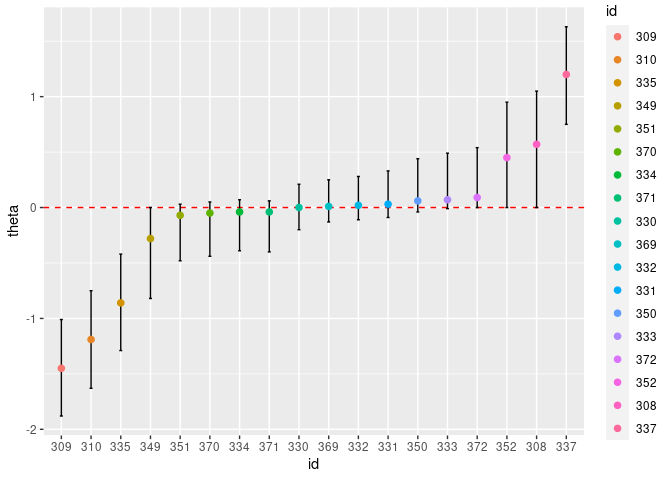
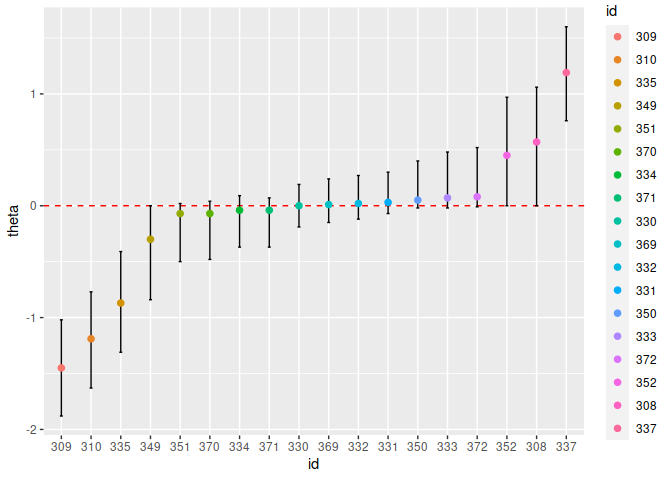
readme title changed

diff --git a/README.md b/README.md
@@ -1,8 +1,8 @@
 <!-- README.md is generated from README.Rmd. Please edit that file -->
 <!-- knit with rmarkdown::render("README.Rmd", output_format = "md_document") -->
 
-SSranef
-=======
+Individual Variance Detection
+=============================
 
 <!-- badges: start -->
 
@@ -69,33 +69,33 @@ Alpha model
     #> Call: ss_ranef_alpha(y = d$y, unit = d$Subject)
     #> 
     #>       Post_mean q05   q95 
-    #> alpha 0.08      -0.08 0.25
+    #> alpha 0.09      -0.08 0.26
     #> sigma 0.79       0.72 0.86
-    #> tau   0.95       0.61 1.42
+    #> tau   0.99       0.62 1.56
 
     ranef_summary(alpha, ci = 0.95, digits = 2)
     #> Linear mixed model fit with SSranef
     #> Call: ss_ranef_alpha(y = d$y, unit = d$Subject)
     #> 
     #>           Post_mean q025  q975  PIP  BF_10   BF_01
-    #> theta_308  0.57      0.00  1.14 0.88    7.21 0.14 
-    #> theta_309 -1.45     -1.96 -0.92 1.00     Inf 0.00 
-    #> theta_310 -1.19     -1.71 -0.66 1.00     Inf 0.00 
-    #> theta_330  0.00     -0.32  0.35 0.23    0.31 3.27 
-    #> theta_331  0.03     -0.20  0.45 0.23    0.31 3.27 
-    #> theta_332  0.02     -0.23  0.40 0.22    0.29 3.48 
-    #> theta_333  0.07     -0.13  0.58 0.29    0.42 2.39 
-    #> theta_334 -0.04     -0.51  0.16 0.26    0.35 2.84 
-    #> theta_335 -0.86     -1.39 -0.29 0.99   84.11 0.01 
-    #> theta_337  1.20      0.68  1.72 1.00 1332.33 0.00 
-    #> theta_349 -0.28     -0.92  0.00 0.61    1.54 0.65 
-    #> theta_350  0.06     -0.15  0.54 0.29    0.40 2.49 
-    #> theta_351 -0.07     -0.60  0.14 0.31    0.45 2.20 
-    #> theta_352  0.45      0.00  1.04 0.79    3.82 0.26 
-    #> theta_369  0.01     -0.25  0.36 0.22    0.28 3.62 
-    #> theta_370 -0.05     -0.55  0.18 0.28    0.39 2.56 
-    #> theta_371 -0.04     -0.51  0.16 0.25    0.34 2.97 
-    #> theta_372  0.09     -0.11  0.64 0.33    0.49 2.03
+    #> theta_308  0.57      0.00  1.13 0.86    6.33 0.16 
+    #> theta_309 -1.45     -1.96 -0.93 1.00     Inf 0.00 
+    #> theta_310 -1.19     -1.71 -0.70 1.00 3999.00 0.00 
+    #> theta_330  0.00     -0.31  0.31 0.21    0.27 3.66 
+    #> theta_331  0.03     -0.19  0.44 0.22    0.29 3.47 
+    #> theta_332  0.02     -0.24  0.38 0.23    0.30 3.36 
+    #> theta_333  0.07     -0.12  0.58 0.30    0.43 2.31 
+    #> theta_334 -0.04     -0.50  0.20 0.25    0.33 3.01 
+    #> theta_335 -0.87     -1.39 -0.30 0.99   80.63 0.01 
+    #> theta_337  1.19      0.67  1.68 1.00     Inf 0.00 
+    #> theta_349 -0.30     -0.94  0.00 0.62    1.63 0.61 
+    #> theta_350  0.05     -0.12  0.52 0.25    0.33 2.99 
+    #> theta_351 -0.07     -0.61  0.12 0.30    0.44 2.28 
+    #> theta_352  0.45      0.00  1.05 0.77    3.28 0.31 
+    #> theta_369  0.01     -0.28  0.37 0.22    0.27 3.65 
+    #> theta_370 -0.07     -0.57  0.14 0.29    0.41 2.42 
+    #> theta_371 -0.04     -0.49  0.18 0.24    0.32 3.13 
+    #> theta_372  0.08     -0.12  0.61 0.31    0.45 2.20
 
     caterpillar_plot(alpha)
 
@@ -127,54 +127,54 @@ Beta model
     #> Call: ss_ranef_beta(y = d$y, X = d$Days, unit = d$Subject)
     #> 
     #>       Post_mean q05   q95  
-    #> alpha -0.84     -1.04 -0.63
-    #> beta   0.18      0.15  0.22
+    #> alpha -0.84     -1.03 -0.64
+    #> beta   0.19      0.15  0.22
     #> sigma  0.47      0.42  0.52
-    #> tau1   0.44      0.25  0.68
-    #> tau2   0.16      0.10  0.29
-    #> rho    0.28     -0.29  0.85
+    #> tau1   0.42      0.23  0.63
+    #> tau2   0.16      0.09  0.27
+    #> rho    0.27     -0.35  0.80
 
     ranef_summary(beta, digits = 2)
     #> Linear mixed model fit with SSranef
     #> Call: ss_ranef_beta(y = d$y, X = d$Days, unit = d$Subject)
     #> 
-    #>            Post_mean q05   q95   PIP  BF_10   BF_01
-    #> theta1_308  0.05     -0.36  0.43   NA      NA   NA 
-    #> theta1_309 -0.64     -1.08 -0.26   NA      NA   NA 
-    #> theta1_310 -0.68     -1.22 -0.20   NA      NA   NA 
-    #> theta1_330  0.26     -0.13  0.74   NA      NA   NA 
-    #> theta1_331  0.26     -0.08  0.66   NA      NA   NA 
-    #> theta1_332  0.14     -0.17  0.48   NA      NA   NA 
-    #> theta1_333  0.27     -0.05  0.60   NA      NA   NA 
-    #> theta1_334 -0.06     -0.38  0.26   NA      NA   NA 
-    #> theta1_335 -0.01     -0.40  0.44   NA      NA   NA 
-    #> theta1_337  0.55      0.16  1.01   NA      NA   NA 
-    #> theta1_349 -0.37     -0.73 -0.04   NA      NA   NA 
-    #> theta1_350 -0.18     -0.63  0.25   NA      NA   NA 
-    #> theta1_351 -0.04     -0.38  0.37   NA      NA   NA 
-    #> theta1_352  0.44      0.05  0.87   NA      NA   NA 
-    #> theta1_369  0.11     -0.21  0.46   NA      NA   NA 
-    #> theta1_370 -0.30     -0.80  0.10   NA      NA   NA 
-    #> theta1_371 -0.03     -0.35  0.30   NA      NA   NA 
-    #> theta1_372  0.26     -0.07  0.61   NA      NA   NA 
-    #> theta2_308  0.17      0.09  0.25 0.99  124.00 0.01 
-    #> theta2_309 -0.17     -0.25 -0.09 0.99  128.03 0.01 
-    #> theta2_310 -0.09     -0.20  0.00 0.79    3.67 0.27 
-    #> theta2_330 -0.05     -0.15  0.00 0.60    1.48 0.68 
-    #> theta2_331 -0.02     -0.11  0.00 0.40    0.65 1.53 
-    #> theta2_332  0.00     -0.04  0.04 0.27    0.37 2.73 
-    #> theta2_333  0.00     -0.03  0.04 0.25    0.33 3.04 
-    #> theta2_334  0.00     -0.02  0.05 0.25    0.33 3.02 
-    #> theta2_335 -0.19     -0.28 -0.12 1.00 1332.33 0.00 
-    #> theta2_337  0.17      0.08  0.25 0.99   82.33 0.01 
-    #> theta2_349  0.00     -0.03  0.06 0.26    0.34 2.92 
-    #> theta2_350  0.11      0.00  0.20 0.90    8.95 0.11 
-    #> theta2_351 -0.02     -0.11  0.00 0.42    0.72 1.40 
-    #> theta2_352  0.04      0.00  0.14 0.56    1.29 0.77 
-    #> theta2_369  0.00     -0.03  0.06 0.28    0.38 2.61 
-    #> theta2_370  0.05      0.00  0.16 0.60    1.53 0.66 
-    #> theta2_371 -0.01     -0.06  0.02 0.27    0.37 2.70 
-    #> theta2_372  0.01     -0.01  0.08 0.29    0.42 2.40
+    #>            Post_mean q05   q95   PIP  BF_10  BF_01
+    #> theta1_308  0.04     -0.38  0.42   NA     NA   NA 
+    #> theta1_309 -0.63     -1.08 -0.21   NA     NA   NA 
+    #> theta1_310 -0.63     -1.17 -0.18   NA     NA   NA 
+    #> theta1_330  0.27     -0.12  0.73   NA     NA   NA 
+    #> theta1_331  0.26     -0.08  0.65   NA     NA   NA 
+    #> theta1_332  0.14     -0.17  0.46   NA     NA   NA 
+    #> theta1_333  0.27     -0.05  0.62   NA     NA   NA 
+    #> theta1_334 -0.06     -0.41  0.25   NA     NA   NA 
+    #> theta1_335  0.00     -0.38  0.42   NA     NA   NA 
+    #> theta1_337  0.52      0.14  0.93   NA     NA   NA 
+    #> theta1_349 -0.35     -0.72 -0.03   NA     NA   NA 
+    #> theta1_350 -0.14     -0.57  0.26   NA     NA   NA 
+    #> theta1_351 -0.02     -0.36  0.36   NA     NA   NA 
+    #> theta1_352  0.45      0.05  0.85   NA     NA   NA 
+    #> theta1_369  0.10     -0.23  0.43   NA     NA   NA 
+    #> theta1_370 -0.28     -0.75  0.10   NA     NA   NA 
+    #> theta1_371 -0.03     -0.34  0.31   NA     NA   NA 
+    #> theta1_372  0.27     -0.06  0.60   NA     NA   NA 
+    #> theta2_308  0.17      0.09  0.25 1.00 221.22 0.00 
+    #> theta2_309 -0.17     -0.25 -0.09 0.99 104.26 0.01 
+    #> theta2_310 -0.10     -0.20  0.00 0.85   5.51 0.18 
+    #> theta2_330 -0.05     -0.15  0.00 0.61   1.58 0.63 
+    #> theta2_331 -0.02     -0.11  0.00 0.41   0.70 1.44 
+    #> theta2_332  0.00     -0.04  0.03 0.24   0.32 3.10 
+    #> theta2_333  0.00     -0.04  0.04 0.25   0.34 2.98 
+    #> theta2_334  0.00     -0.02  0.06 0.26   0.35 2.85 
+    #> theta2_335 -0.20     -0.28 -0.12 1.00    Inf 0.00 
+    #> theta2_337  0.17      0.09  0.25 0.99 159.00 0.01 
+    #> theta2_349  0.00     -0.03  0.05 0.26   0.34 2.90 
+    #> theta2_350  0.10      0.00  0.19 0.89   7.95 0.13 
+    #> theta2_351 -0.03     -0.11  0.00 0.43   0.75 1.33 
+    #> theta2_352  0.04      0.00  0.14 0.53   1.12 0.89 
+    #> theta2_369  0.01     -0.02  0.06 0.26   0.36 2.82 
+    #> theta2_370  0.05      0.00  0.16 0.58   1.37 0.73 
+    #> theta2_371 -0.01     -0.06  0.02 0.26   0.36 2.78 
+    #> theta2_372  0.01     -0.02  0.07 0.29   0.41 2.45
 
     caterpillar_plot(beta)
 
@@ -190,9 +190,9 @@ Multivariate model
     mv_data <- gen_mv_data(5, 5)
     str(mv_data)
     #> 'data.frame':    25 obs. of  4 variables:
-    #>  $ y1: num  3.01 4.88 4.55 7.26 3.9 ...
-    #>  $ y2: num  4.63 5.63 5.06 6.61 6.88 ...
-    #>  $ x : num  0 0 0 1 1 1 0 1 0 0 ...
+    #>  $ y1: num  -2.197 3.206 0.325 -3.464 -2.069 ...
+    #>  $ y2: num  2.15 3.09 2.85 5.13 5.48 ...
+    #>  $ x : num  0 0 0 1 1 1 1 1 0 1 ...
     #>  $ id: Factor w/ 5 levels "1","2","3","4",..: 1 1 1 1 1 2 2 2 2 2 ...
 
     mv_model <- ss_ranef_mv(Y = cbind(mv_data$y1, mv_data$y2),
@@ -220,24 +220,24 @@ Multivariate model
     #> Call: ss_ranef_mv(Y = cbind(mv_data$y1, mv_data$y2), X = mv_data$x, 
     #>     unit = mv_data$id, burnin = 100, iter = 500, chains = 4)
     #> 
-    #>         Post_mean q05   q95  
-    #> B_1_1    1.87      0.64  3.01
-    #> B_1_2    1.33     -0.79  3.41
-    #> B_2_1    3.05      2.27  3.79
-    #> B_2_2    2.47      1.06  3.97
-    #> rb_1_2   0.10     -0.98  0.98
-    #> rb_1_3   0.15     -0.94  0.98
-    #> rb_1_4  -0.11     -0.98  0.97
-    #> rb_2_3  -0.05     -0.99  0.97
-    #> rb_2_4  -0.86     -0.99 -0.54
-    #> rb_3_4   0.04     -0.97  0.97
-    #> rw       0.72      0.53  0.87
-    #> sigma_1  2.73      2.14  3.44
-    #> sigma_2  1.82      1.42  2.33
-    #> Tau_1_1  7.75      0.23 24.36
-    #> Tau_2_2 10.65      1.09 32.15
-    #> Tau_3_3  6.73      0.24 27.64
-    #> Tau_4_4  6.60      0.94 20.27
+    #>         Post_mean q05   q95   
+    #> B_1_1    1.51      0.43   2.56
+    #> B_1_2    0.13     -2.28   2.34
+    #> B_2_1    2.94      2.60   3.28
+    #> B_2_2    1.66      1.06   2.37
+    #> rb_1_2   0.33     -0.99   1.00
+    #> rb_1_3  -0.17     -0.99   0.98
+    #> rb_1_4   0.08     -0.99   0.99
+    #> rb_2_3  -0.13     -1.00   0.99
+    #> rb_2_4  -0.24     -1.00   0.99
+    #> rb_3_4   0.03     -0.99   0.99
+    #> rw       0.29     -0.06   0.58
+    #> sigma_1  2.53      1.99   3.26
+    #> sigma_2  0.76      0.58   0.98
+    #> Tau_1_1 15.28      0.31  68.36
+    #> Tau_2_2 54.83      9.86 155.46
+    #> Tau_3_3 31.15      0.34 148.42
+    #> Tau_4_4 23.15      1.62  75.70
 
 Priors
 ------
@@ -268,25 +268,25 @@ named list and using JAGS code, e.g.,
     #> Linear mixed model fit with SSranef
     #> Call: ss_ranef_alpha(y = d$y, unit = d$Subject, priors = priors)
     #> 
-    #>           Post_mean q05   q95   PIP  BF_10  BF_01
-    #> theta_308  0.61      0.00  1.05 0.95  19.51 0.05 
-    #> theta_309 -1.40     -1.85 -0.95 1.00    Inf 0.00 
-    #> theta_310 -1.15     -1.60 -0.71 1.00    Inf 0.00 
-    #> theta_330  0.01     -0.32  0.35 0.49   0.97 1.03 
-    #> theta_331  0.07     -0.20  0.47 0.54   1.18 0.85 
-    #> theta_332  0.04     -0.24  0.43 0.50   1.01 0.99 
-    #> theta_333  0.14     -0.12  0.59 0.58   1.38 0.73 
-    #> theta_334 -0.07     -0.49  0.22 0.53   1.11 0.90 
-    #> theta_335 -0.84     -1.27 -0.39 0.99 136.93 0.01 
-    #> theta_337  1.18      0.74  1.60 1.00    Inf 0.00 
-    #> theta_349 -0.36     -0.84  0.00 0.82   4.59 0.22 
-    #> theta_350  0.11     -0.16  0.56 0.56   1.28 0.78 
-    #> theta_351 -0.12     -0.56  0.14 0.56   1.29 0.77 
-    #> theta_352  0.52      0.00  0.96 0.92  11.08 0.09 
-    #> theta_369  0.04     -0.26  0.40 0.53   1.13 0.89 
-    #> theta_370 -0.10     -0.54  0.18 0.56   1.28 0.78 
-    #> theta_371 -0.08     -0.50  0.22 0.54   1.19 0.84 
-    #> theta_372  0.17     -0.10  0.64 0.62   1.64 0.61
+    #>           Post_mean q05   q95   PIP  BF_10   BF_01
+    #> theta_308  0.61      0.00  1.06 0.95   18.90 0.05 
+    #> theta_309 -1.39     -1.83 -0.95 1.00     Inf 0.00 
+    #> theta_310 -1.14     -1.58 -0.71 1.00     Inf 0.00 
+    #> theta_330  0.01     -0.30  0.35 0.48    0.93 1.07 
+    #> theta_331  0.06     -0.20  0.44 0.51    1.04 0.96 
+    #> theta_332  0.05     -0.26  0.44 0.52    1.08 0.92 
+    #> theta_333  0.15     -0.12  0.60 0.60    1.48 0.67 
+    #> theta_334 -0.06     -0.46  0.22 0.52    1.10 0.91 
+    #> theta_335 -0.84     -1.28 -0.40 1.00  399.00 0.00 
+    #> theta_337  1.17      0.72  1.60 1.00 1999.00 0.00 
+    #> theta_349 -0.36     -0.85  0.00 0.81    4.21 0.24 
+    #> theta_350  0.11     -0.15  0.55 0.57    1.31 0.76 
+    #> theta_351 -0.13     -0.59  0.14 0.60    1.51 0.66 
+    #> theta_352  0.53      0.00  0.99 0.92   11.08 0.09 
+    #> theta_369  0.03     -0.27  0.42 0.50    1.01 0.99 
+    #> theta_370 -0.10     -0.53  0.17 0.55    1.23 0.81 
+    #> theta_371 -0.07     -0.48  0.22 0.53    1.12 0.89 
+    #> theta_372  0.16     -0.09  0.64 0.62    1.63 0.61
 
 Building on top of SSranef models
 ---------------------------------
